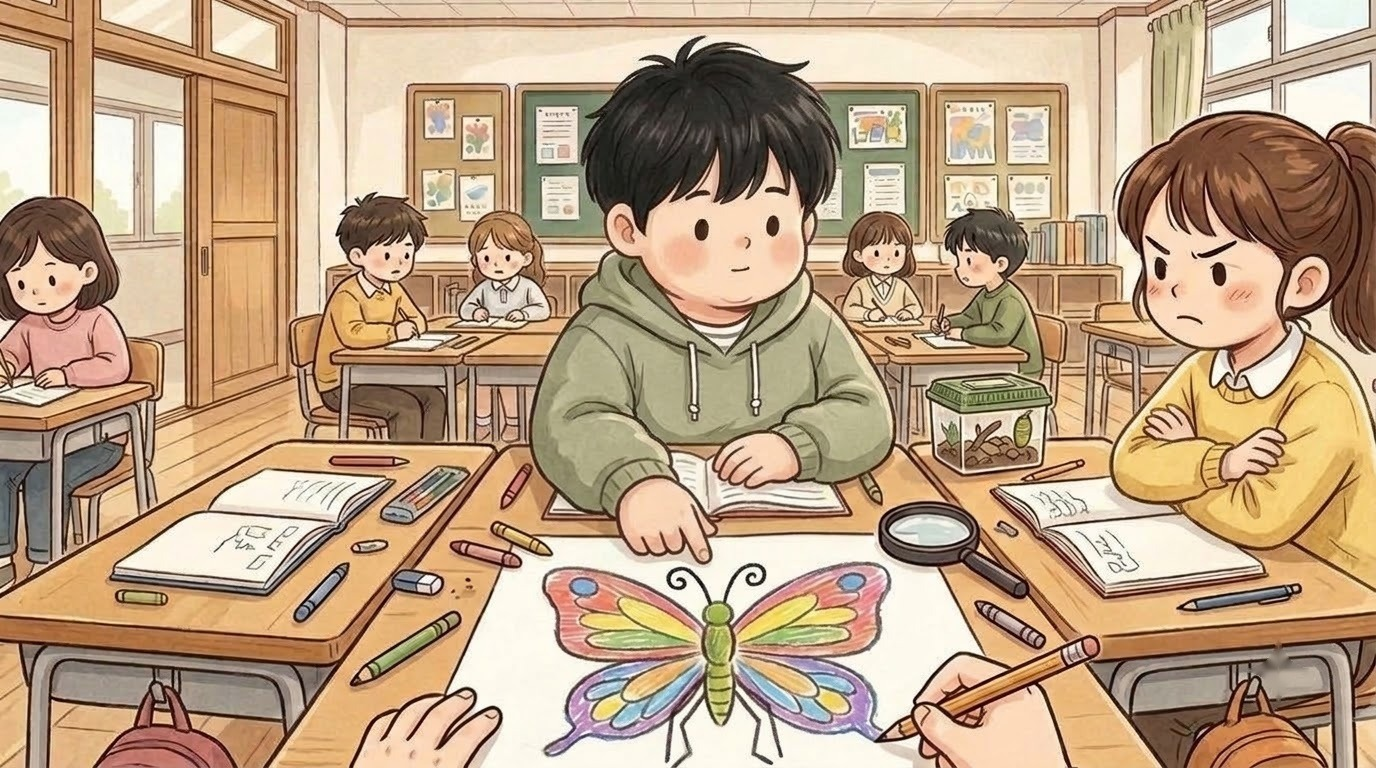
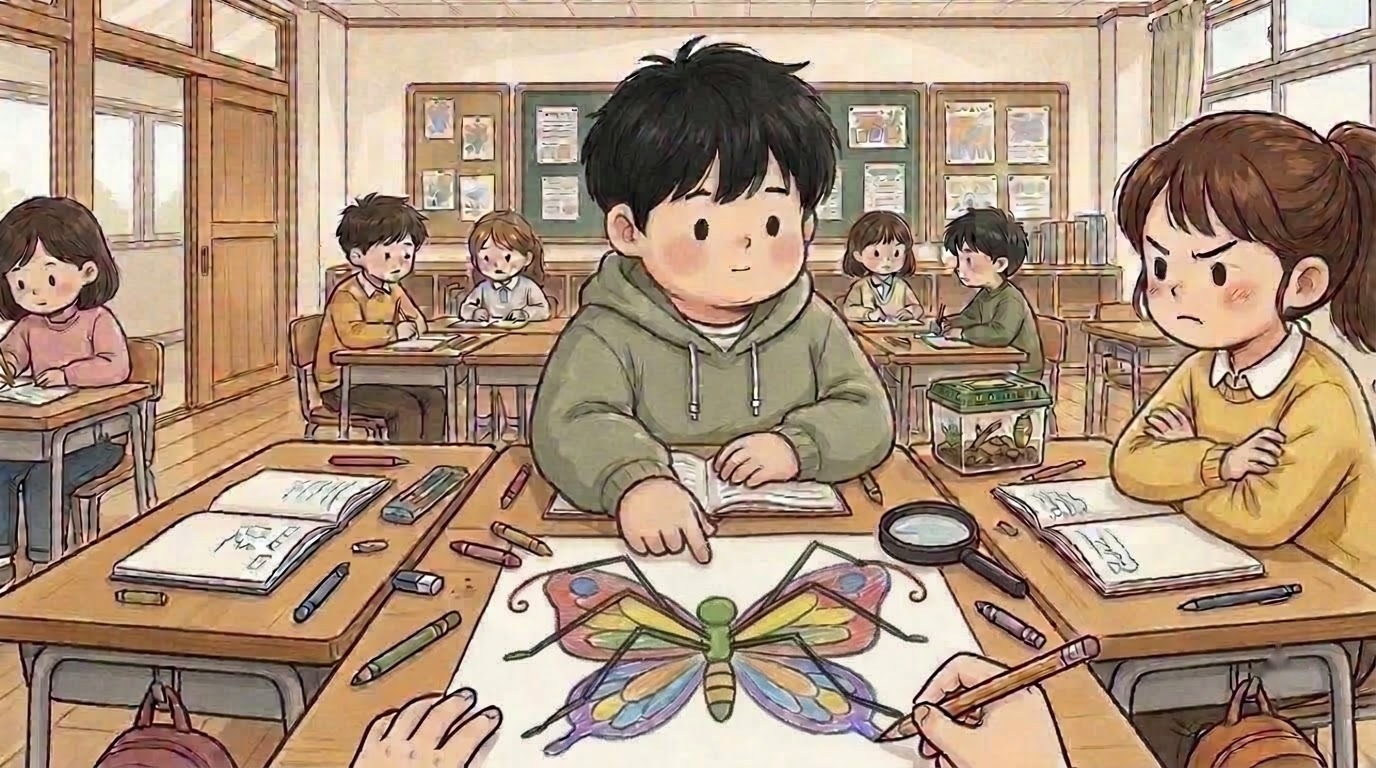
시우 3일차 그림: 주인공이 틀리게 그린 나비(다리 4개는 가슴에서, 더듬이는 날개에서)

diff --git a/index.html b/index.html
@@ -119,14 +119,14 @@ body,button{word-break:keep-all;overflow-wrap:break-word}
 <div id="fader"></div>
 <script>
 // same address, newest version: if the page this phone has kept is older than the one online, fetch the new one and reopen
-const BUILD='1110204212';
+const BUILD='1110204542';
 try{fetch(location.pathname,{cache:'no-store'}).then(r=>r.text()).then(t=>{const m=t.match(/const BUILD='(\d+)'/);if(m&&m[1]!==BUILD&&sessionStorage.getItem('upd')!==m[1]){sessionStorage.setItem('upd',m[1]);fetch(location.pathname,{cache:'reload'}).then(()=>location.reload())}}).catch(()=>{})}catch(e){}
 </script>
-<script src="i18n.js?v=1110204212"></script>
-<script src="i18n_prologue_v2.js?v=1110204212"></script>
-<script src="day2/i18n_engine.js?v=1110204212"></script>
-<script src="day2/data.js?v=1110204212"></script>
-<script src="day3/data.js?v=1110204212"></script>
+<script src="i18n.js?v=1110204542"></script>
+<script src="i18n_prologue_v2.js?v=1110204542"></script>
+<script src="day2/i18n_engine.js?v=1110204542"></script>
+<script src="day2/data.js?v=1110204542"></script>
+<script src="day3/data.js?v=1110204542"></script>
 <script>
 // ---------- data ----------
 const MW=1672,MH=941,KID=180;
@@ -569,37 +569,37 @@ function pickHero(){const m=document.getElementById('modal'),c=document.getEleme
  c.innerHTML=`<h2>${tr('전학생 반장되기')}</h2><p>${tr('한국말이 아직 서툰 전학생,<br>반장 선거에 나가다.')}</p><p style="margin-top:14px">${tr('누구로 할까요?')}</p>${(()=>{const s=loadSave();return s&&s.day>=2&&s.mode===UI+'-'+LANG?`<p><button class="big" id="cont">${tr('{n}일차부터 이어 하기').replace('{n}',s.day)}</button></p>`:''})()}<div class="pick heroes"><button data-h="hero_f"><img src="faces/hero_f_smile.jpg" alt="여자 주인공">${heroName(1)}</button><button data-h="hero_m"><img src="faces/hero_m_smile.jpg" alt="남자 주인공">${heroName(0)}</button></div>`;
  m.classList.add('on');{const cb=document.getElementById('cont');if(cb)cb.onclick=()=>{const s=loadSave();HERO=s.hero;Object.assign(HEART,s.heart||{});(s.found||[]).forEach(k=>FOUND.add(k));HEART_D1={...HEART};chime();(typeof contGame==='function'?contGame(s):startDay(Math.min(s.day,Object.keys(window.D3||{}).length?3:2)))}}c.querySelectorAll('.pick button').forEach(b=>b.onclick=()=>{HERO=b.dataset.h;m.classList.remove('on');chime();bgm('day');load('home_am');say([['nar','','이사 온 다음 날 아침. 아직 풀지 못한 상자들이 쌓여 있다.'],['think','sad','(오늘부터 새 학교야. 여기 말도 아직 서툰데…….)'],['think','smile','({m}한테 인사하고 학교 가야지.)']],morning)})}
 </script>
-<script src="day2/engine.js?v=1110204212"></script>
-<script src="day2/ep_minho.js?v=1110204212"></script>
-<script src="day2/meet.js?v=1110204212"></script>
-<script src="day2/ep_sua.js?v=1110204212"></script>
-<script src="day2/ep_hangyeol.js?v=1110204212"></script>
-<script src="day2/ep_siwoo.js?v=1110204212"></script>
-<script src="day2/ep_haram.js?v=1110204212"></script>
-<script src="day2/ep_jiho.js?v=1110204212"></script>
-<script src="day2/ep_hyeeun.js?v=1110204212"></script>
-<script src="day2/ep_haneul.js?v=1110204212"></script>
-<script src="day2/ep_junho.js?v=1110204212"></script>
-<script src="day2/ep_yuna.js?v=1110204212"></script>
-<script src="day2/ep_yena.js?v=1110204212"></script>
-<script src="day2/ep_haeun.js?v=1110204212"></script>
-<script src="day2/ep_youngmin.js?v=1110204212"></script>
-<script src="day2/ep_seah.js?v=1110204212"></script>
-<script src="day2/ep_jihoon.js?v=1110204212"></script>
-<script src="words_ja_ru.js?v=1110204212"></script>
-<script src="day2/mybag.js?v=1110204212"></script>
-<script src="day2/wordpics.js?v=1110204212"></script>
-<script src="day2/spots.js?v=1110204212"></script>
-<script src="day2/textfit.js?v=1110204212"></script>
-<script src="day2/tester.js?v=1110204212"></script>
-<script src="day2/ux.js?v=1110204212"></script>
-<script src="day2/tapword.js?v=1110204212"></script>
-<script src="day2/review.js?v=1110204212"></script>
-<script src="day2/plane.js?v=1110204212"></script>
-<script src="day2/bubble.js?v=1110204212"></script>
-<script src="day2/ep_ending.js?v=1110204212"></script>
-<script src="day2/ending.js?v=1110204212"></script>
-<script src="day2/stats.js?v=1110204212"></script>
+<script src="day2/engine.js?v=1110204542"></script>
+<script src="day2/ep_minho.js?v=1110204542"></script>
+<script src="day2/meet.js?v=1110204542"></script>
+<script src="day2/ep_sua.js?v=1110204542"></script>
+<script src="day2/ep_hangyeol.js?v=1110204542"></script>
+<script src="day2/ep_siwoo.js?v=1110204542"></script>
+<script src="day2/ep_haram.js?v=1110204542"></script>
+<script src="day2/ep_jiho.js?v=1110204542"></script>
+<script src="day2/ep_hyeeun.js?v=1110204542"></script>
+<script src="day2/ep_haneul.js?v=1110204542"></script>
+<script src="day2/ep_junho.js?v=1110204542"></script>
+<script src="day2/ep_yuna.js?v=1110204542"></script>
+<script src="day2/ep_yena.js?v=1110204542"></script>
+<script src="day2/ep_haeun.js?v=1110204542"></script>
+<script src="day2/ep_youngmin.js?v=1110204542"></script>
+<script src="day2/ep_seah.js?v=1110204542"></script>
+<script src="day2/ep_jihoon.js?v=1110204542"></script>
+<script src="words_ja_ru.js?v=1110204542"></script>
+<script src="day2/mybag.js?v=1110204542"></script>
+<script src="day2/wordpics.js?v=1110204542"></script>
+<script src="day2/spots.js?v=1110204542"></script>
+<script src="day2/textfit.js?v=1110204542"></script>
+<script src="day2/tester.js?v=1110204542"></script>
+<script src="day2/ux.js?v=1110204542"></script>
+<script src="day2/tapword.js?v=1110204542"></script>
+<script src="day2/review.js?v=1110204542"></script>
+<script src="day2/plane.js?v=1110204542"></script>
+<script src="day2/bubble.js?v=1110204542"></script>
+<script src="day2/ep_ending.js?v=1110204542"></script>
+<script src="day2/ending.js?v=1110204542"></script>
+<script src="day2/stats.js?v=1110204542"></script>
 <script>
 // the goal shows big for a few seconds, then folds into a small pill (tap it to open it again)
 {const g=document.getElementById('goal');let t=null;const big=()=>{g.classList.remove('mini');clearTimeout(t);t=setTimeout(()=>g.classList.add('mini'),4000)};
